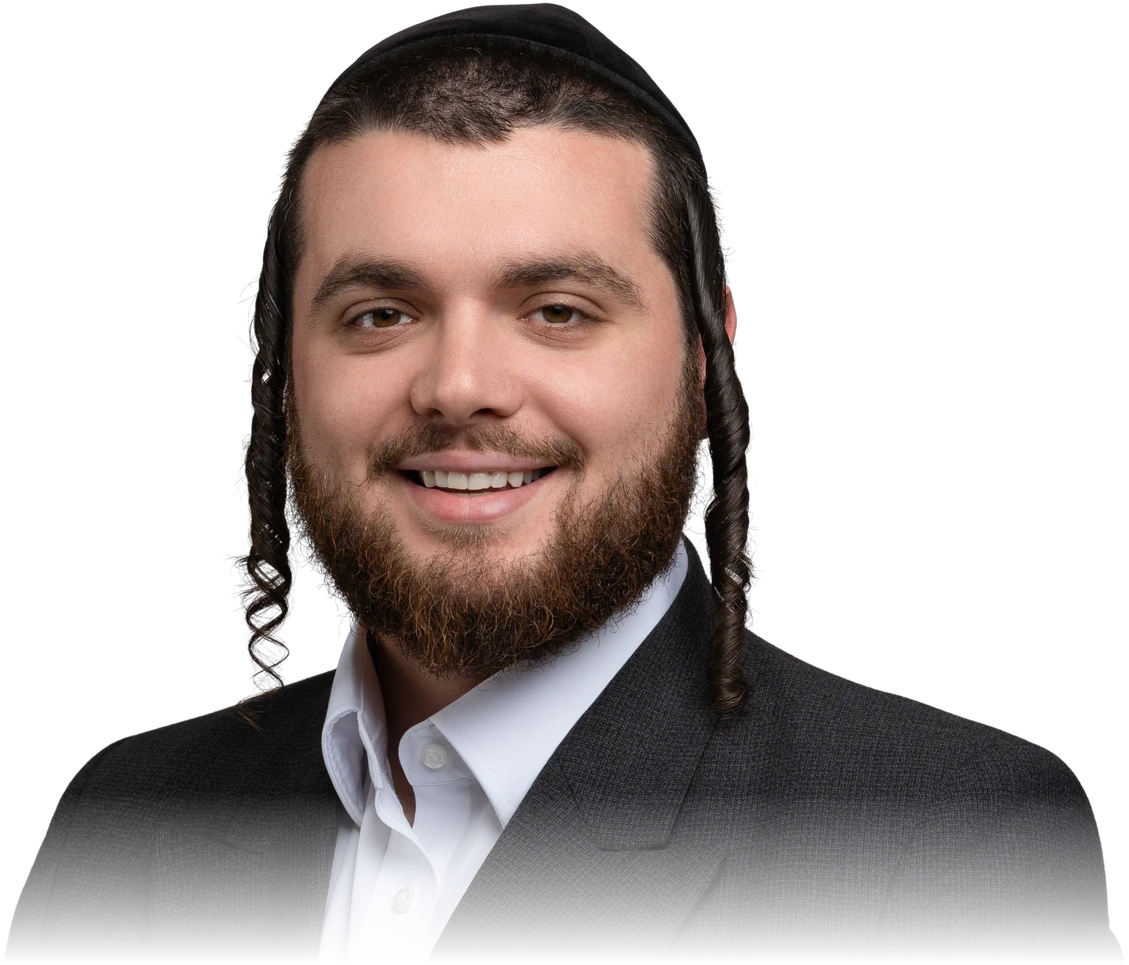
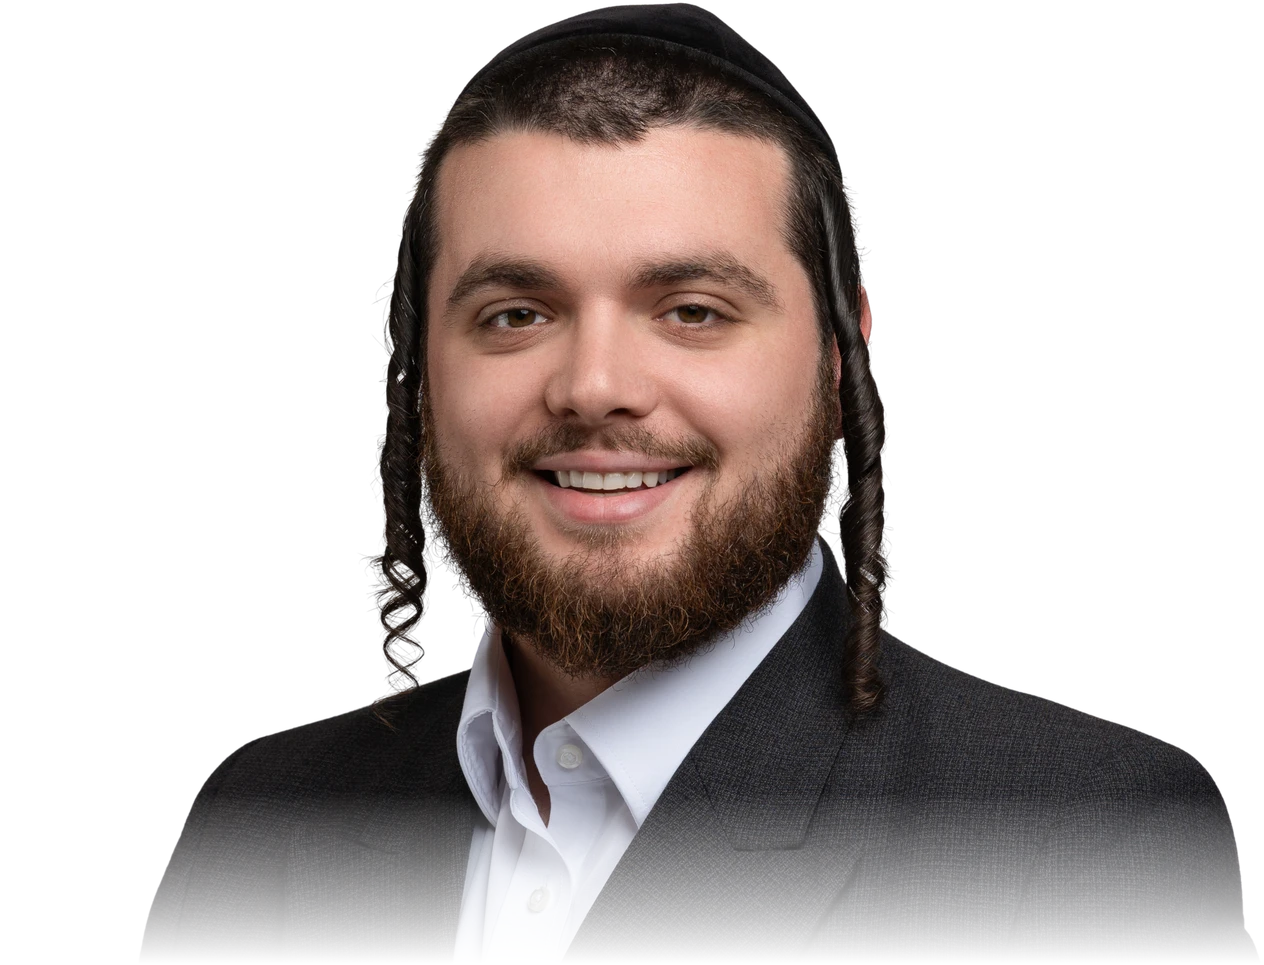
Hero: center the portrait on the face and lift it above the name on mobile
Claude-Session: https://claude.ai/code/session_018mn8eCbcPuY2ph9pS4SYZA

diff --git a/src/pages/Index.tsx b/src/pages/Index.tsx
@@ -64,12 +64,12 @@ const Index = () => {
           initial={{ opacity: 0, y: 40 }}
           animate={{ opacity: 1, y: 0 }}
           transition={{ ...spring, duration: 1.2, delay: 0.2 }}
-          className="absolute inset-x-0 bottom-[16%] md:bottom-[12%] top-[14%] z-[2] flex justify-center items-end"
+          className="absolute inset-x-0 bottom-[38%] md:bottom-[12%] top-[12%] md:top-[14%] z-[2] flex justify-center items-end"
         >
           <img
             src={heroImg}
             alt="נחמן כהן"
-            className="h-[85%] md:h-auto w-auto max-w-none md:max-h-full md:max-w-[min(100%,980px)] object-contain object-bottom drop-shadow-[0_20px_50px_rgba(0,0,0,.6)]"
+            className="max-h-full max-w-[min(100%,980px)] w-auto mx-auto object-contain object-bottom drop-shadow-[0_20px_50px_rgba(0,0,0,.6)]"
           />
         </motion.div>
 
